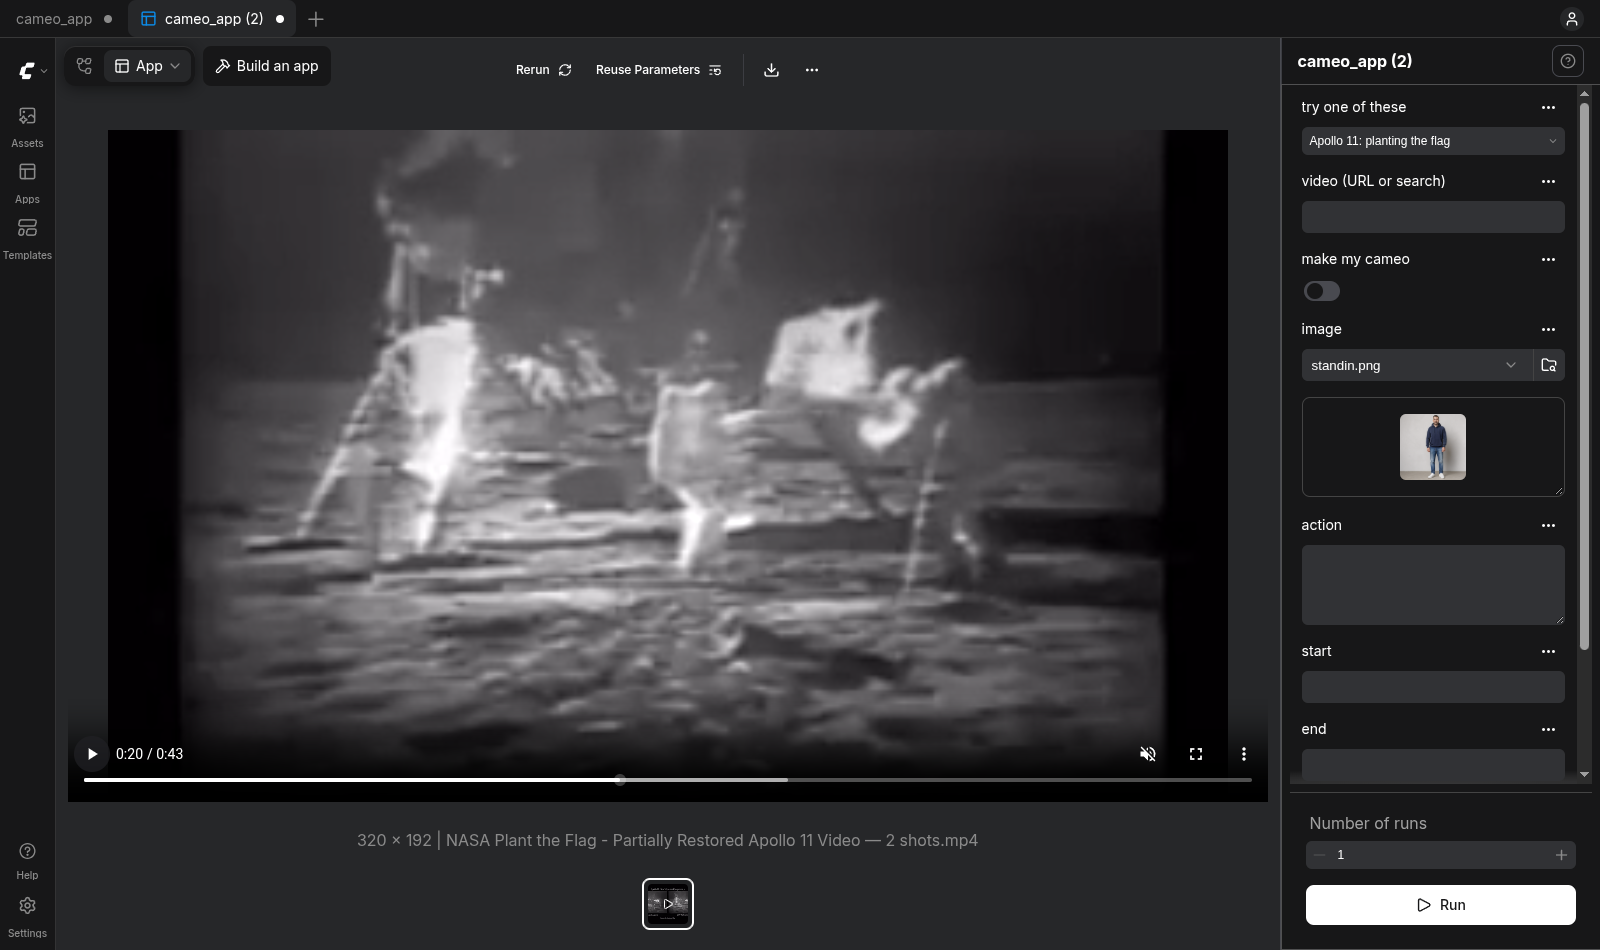
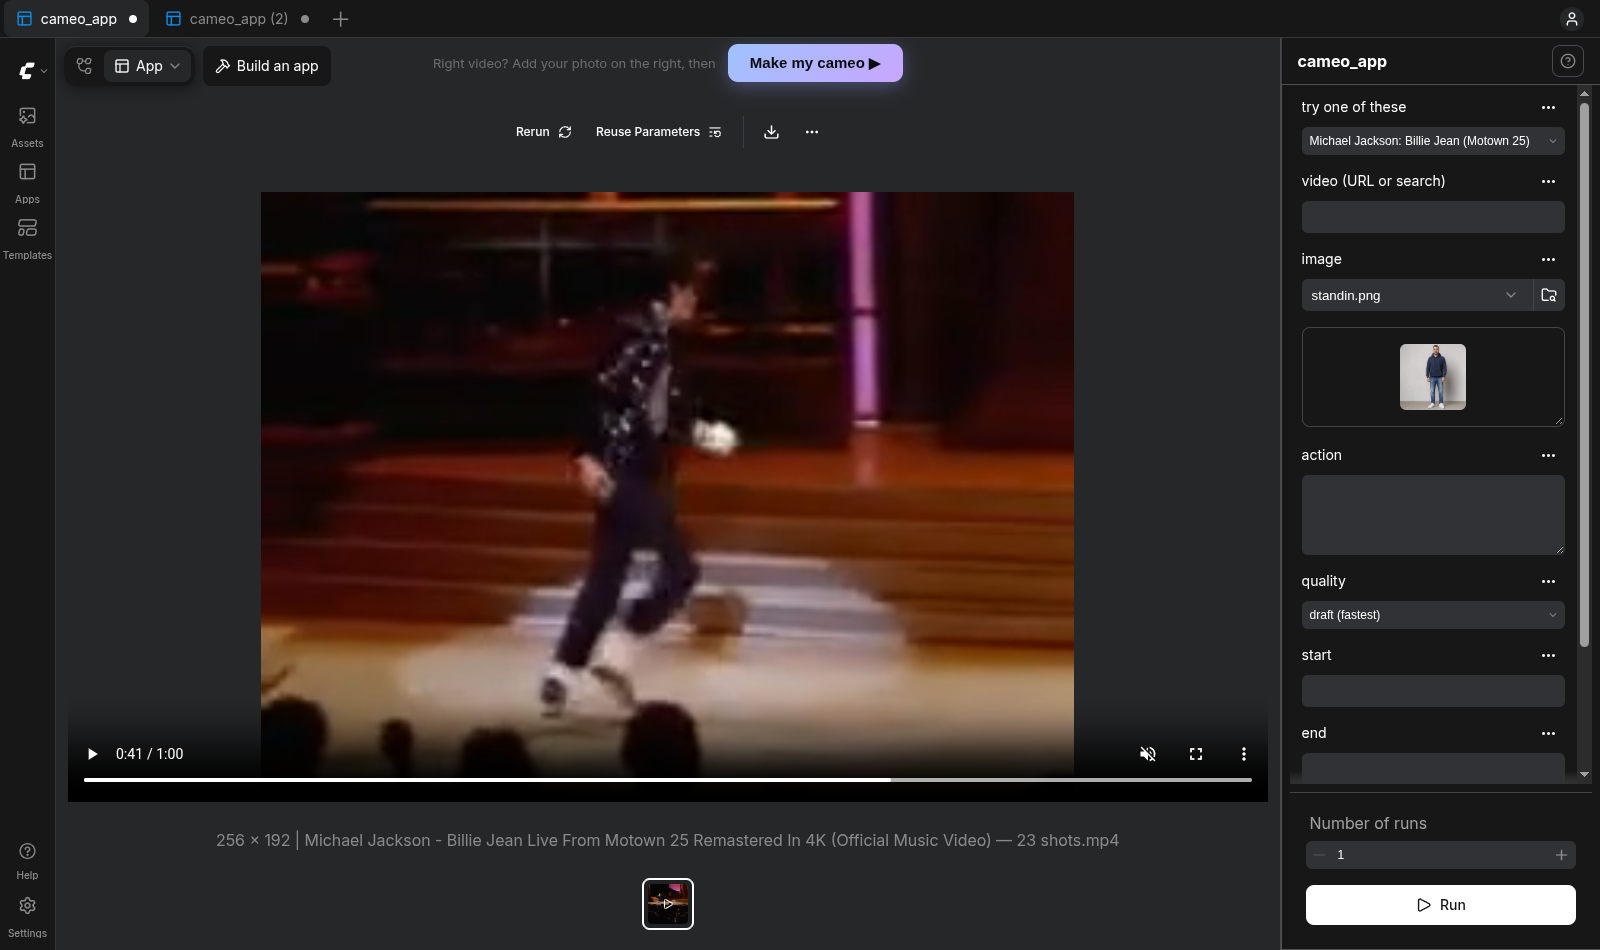
Replace the make-my-cameo toggle with a 'Make my cameo' button
Run in the sidebar now always previews. After a preview, a 'Make my cameo'
button above the video queues one run with generation on, then switches back.
The toggle stays in the graph for API use but is no longer an app input.

Claude-Session: https://claude.ai/code/session_01WrQ2DxVGgjGvV8Z2unbntU

diff --git a/comfyui_cameo/web/cameo.js b/comfyui_cameo/web/cameo.js
@@ -82,8 +82,8 @@ function pickScene(label) {
   const { fetch, cast } = cameoNodes();
   setWidget(fetch, "suggestion", label);
   setWidget(fetch, "url", "");
-  const making = cast?.widgets?.find((w) => w.name === "make_cameo")?.value;
-  if (!making) app.queuePrompt(0, 1); // a preview only: about 15 seconds, no models loaded
+  setWidget(cast, "make_cameo", false);
+  app.queuePrompt(0, 1); // a preview only: about 15 seconds, no models loaded
 }
 
 function welcome() {
@@ -110,8 +110,8 @@ function welcome() {
     <p class="pitch">Put yourself in any video. You're <i>added</i> to the scene, next to the people already there; every original pixel stays.</p>
     <ol>
       <li><b>1 · Pick a scene</b>Click one below, or paste a link / type a search on the right.</li>
-      <li><b>2 · Check the preview</b>The clip and its title show up here in about 15 seconds.</li>
-      <li><b>3 · Make your cameo</b>Add your photo (or webcam), switch on <i>make my cameo</i>, and Run.</li>
+      <li><b>2 · Check the preview</b>Press Run: the clip and its title show up here in about 15 seconds.</li>
+      <li><b>3 · Make your cameo</b>Add your photo (or webcam) on the right, then press <i>Make my cameo</i>.</li>
     </ol>
     <h2>Try one of these</h2>
     <div class="cards"></div>
@@ -144,3 +144,43 @@ function decorate() {
 }
 
 new MutationObserver(() => decorate()).observe(document.body, { childList: true, subtree: true });
+
+// ---- "Make my cameo" button: Run previews; this button generates. Replaces the make-my-cameo toggle in the app. ----
+
+async function makeCameo(button) {
+  const { cast } = cameoNodes();
+  const toggle = cast?.widgets?.find((w) => w.name === "make_cameo");
+  if (!toggle) return;
+  button.disabled = true;
+  button.textContent = "Making your cameo… (a few minutes)";
+  setWidget(cast, "make_cameo", true);
+  try {
+    await app.queuePrompt(0, 1); // the prompt is serialized here, with generation on
+  } finally {
+    setWidget(cast, "make_cameo", false); // back to preview-only for the next Run
+    setTimeout(() => { button.disabled = false; button.textContent = "Make my cameo ▶"; }, 4000);
+  }
+}
+
+function addMakeButton() {
+  const panel = document.querySelector('[data-testid="linear-center-panel"]');
+  const existing = document.querySelector(".cameo-make");
+  const show = panel && cameoNodes().fetch && !panel.querySelector('[data-testid="linear-welcome"]');
+  if (!show) { existing?.remove(); return; }
+  if (existing && panel.contains(existing)) return;
+  const bar = document.createElement("div");
+  bar.className = "cameo-make";
+  bar.style.cssText = "display:flex;justify-content:center;gap:12px;align-items:center;padding:6px 0 2px;pointer-events:auto";
+  const b = document.createElement("button");
+  b.textContent = "Make my cameo ▶";
+  b.style.cssText = "cursor:pointer;border:none;border-radius:10px;padding:10px 22px;font-size:15px;font-weight:700;" +
+                    "color:#0b0c0f;background:linear-gradient(135deg,#9fc2ff,#c9a6ff);box-shadow:0 4px 18px rgba(140,160,255,.35)";
+  b.addEventListener("click", () => makeCameo(b));
+  const hint = document.createElement("span");
+  hint.textContent = "Right video? Add your photo on the right, then";
+  hint.style.cssText = "font-size:13px;opacity:.7";
+  bar.append(hint, b);
+  panel.prepend(bar);
+}
+
+new MutationObserver(() => addMakeButton()).observe(document.body, { childList: true, subtree: true });

diff --git a/cameo/ui.py b/cameo/ui.py
@@ -45,7 +45,7 @@ def convert(api, path):
     return path
 
 
-APP_INPUTS = [("CameoFetch", "suggestion"), ("CameoFetch", "url"), ("CameoCast", "make_cameo"), ("CameoPhoto", "source"), ("LoadImage", "image"),
+APP_INPUTS = [("CameoFetch", "suggestion"), ("CameoFetch", "url"), ("CameoPhoto", "source"), ("LoadImage", "image"),
               ("WebcamCapture", "image"), ("CameoCast", "action", {"height": 80}),
               ("CameoFetch", "quality"), ("CameoFetch", "start"), ("CameoFetch", "end"), ("CameoCast", "max_shots"), ("CameoCast", "takes")]
 APP_OUTPUTS = ["CameoFetch", "PreviewAny", "SaveVideo"]
